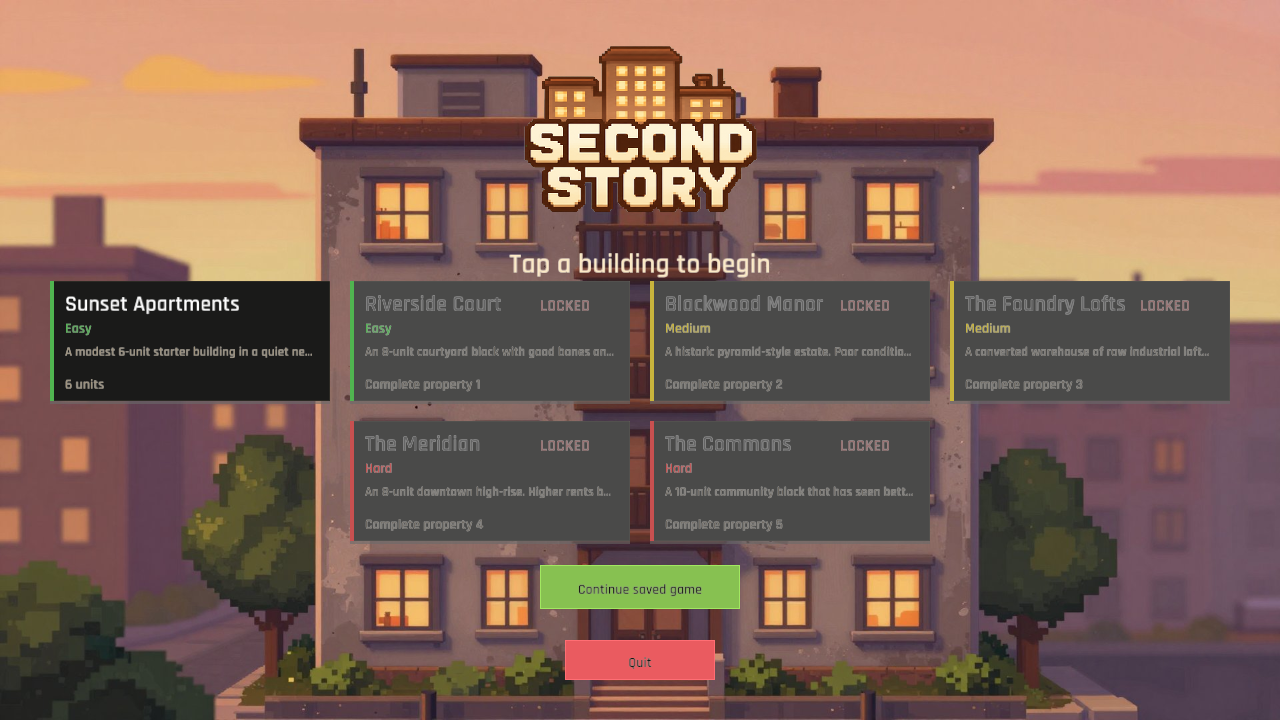
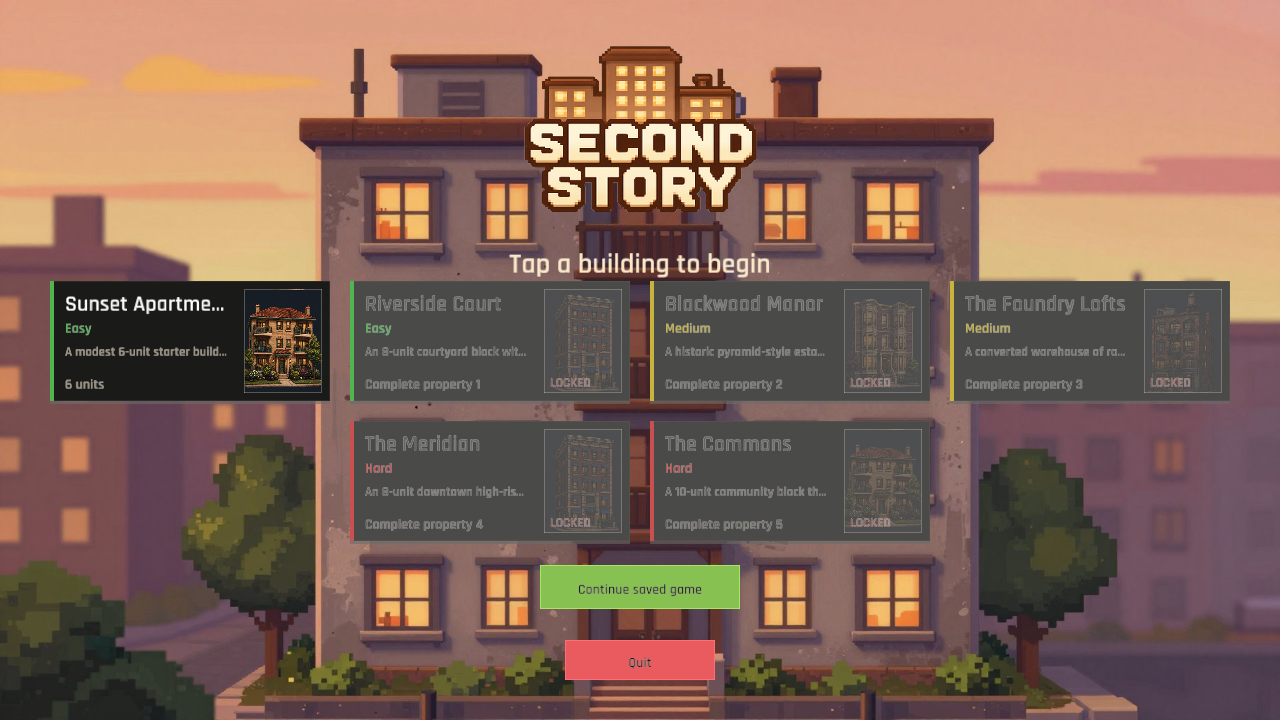
The property book opens with a portrait of every address (campaign facade cards)
Reuse the generated neighborhood facade atlas in campaign selection so every building card conveys its district and architectural identity at a glance. Dim locked property art, preserve its concrete unlock requirement, and reserve a responsive text column so names and descriptions remain legible beside the preview.

Cover all four neighborhood-to-facade mappings and the unknown-neighborhood fallback with focused tests.

Verified with 135 passing tests (1 ignored), desktop and 640x480 menu captures, formatting and Rust line-count checks, and publish.ps1 for Windows, WebGL, and preview deployment.

diff --git a/src/state/menu.rs b/src/state/menu.rs
@@ -235,6 +235,16 @@ impl MenuState {
                 );
             }
 
+            let art_w = if card_h < 90.0 { 64.0 } else { 78.0 };
+            let art_rect = Rect::new(x + card_w - art_w - 8.0, y + 8.0, art_w, card_h - 16.0);
+            let has_facade =
+                draw_campaign_facade(template.neighborhood_id, art_rect, is_unlocked, assets);
+            let text_w = if has_facade {
+                card_w - art_w - 38.0
+            } else {
+                card_w - 30.0
+            };
+
             // Border color based on difficulty
             let border_color = match template.difficulty.as_str() {
                 "Easy" => Color::from_rgba(80, 180, 80, 255),
@@ -252,7 +262,11 @@ impl MenuState {
             };
             let compact_card = card_h < 105.0;
             draw_ui_text(
-                &template.name,
+                &truncate_text_to_width(
+                    &template.name,
+                    text_w,
+                    if compact_card { 19.0 } else { 22.0 },
+                ),
                 x + 15.0,
                 y + if compact_card { 24.0 } else { 30.0 },
                 if compact_card { 19.0 } else { 22.0 },
@@ -276,7 +290,7 @@ impl MenuState {
             };
             if !compact_card {
                 draw_ui_text(
-                    &truncate_text_to_width(&template.description, card_w - 30.0, 13.0),
+                    &truncate_text_to_width(&template.description, text_w, 13.0),
                     x + 15.0,
                     y + 75.0,
                     13.0,
@@ -294,7 +308,7 @@ impl MenuState {
                 format!("Complete property {}", template.unlock_order)
             };
             draw_ui_text(
-                &truncate_text_to_width(&footer_text, card_w - 30.0, 14.0),
+                &truncate_text_to_width(&footer_text, text_w, 14.0),
                 x + 15.0,
                 y + card_h - 12.0,
                 14.0,
@@ -305,9 +319,9 @@ impl MenuState {
             if !is_unlocked {
                 draw_ui_text(
                     "LOCKED",
-                    x + card_w - 90.0,
-                    y + if compact_card { 24.0 } else { 30.0 },
-                    16.0,
+                    art_rect.x + 6.0,
+                    art_rect.bottom() - 6.0,
+                    13.0,
                     Color::from_rgba(150, 100, 100, 255),
                 );
             }
@@ -358,6 +372,53 @@ impl MenuState {
     }
 }
 
+fn campaign_facade_tile(neighborhood_id: u32) -> (f32, f32) {
+    match neighborhood_id {
+        0 => (0.0, 0.0), // Downtown
+        2 => (1.0, 0.0), // Industrial
+        3 => (0.0, 1.0), // Historic
+        _ => (1.0, 1.0), // Suburbs and safe fallback
+    }
+}
+
+fn draw_campaign_facade(
+    neighborhood_id: u32,
+    rect: Rect,
+    unlocked: bool,
+    assets: &AssetManager,
+) -> bool {
+    let Some(texture) = assets.get_texture("property_facades") else {
+        return false;
+    };
+    let (column, row) = campaign_facade_tile(neighborhood_id);
+    let tile_w = texture.width() * 0.5;
+    let tile_h = texture.height() * 0.5;
+    draw_texture_ex(
+        texture,
+        rect.x,
+        rect.y,
+        if unlocked {
+            WHITE
+        } else {
+            Color::new(0.42, 0.4, 0.38, 0.72)
+        },
+        DrawTextureParams {
+            dest_size: Some(vec2(rect.w, rect.h)),
+            source: Some(Rect::new(column * tile_w, row * tile_h, tile_w, tile_h)),
+            ..Default::default()
+        },
+    );
+    draw_rectangle_lines(
+        rect.x,
+        rect.y,
+        rect.w,
+        rect.h,
+        1.0,
+        Color::new(0.8, 0.7, 0.55, 0.45),
+    );
+    true
+}
+
 fn draw_title_logo(assets: &AssetManager) {
     if let Some(logo) = assets.get_texture("title_logo") {
         let (logo_w, logo_h, logo_y) = if screen_height() < 520.0 {
@@ -390,3 +451,6 @@ fn draw_title_logo(assets: &AssetManager) {
         );
     }
 }
+
+#[cfg(test)]
+mod tests;

diff --git a/src/state/menu/tests.rs b/src/state/menu/tests.rs
@@ -1,0 +1,14 @@
+use super::*;
+
+#[test]
+fn campaign_neighborhoods_map_to_distinct_facades() {
+    let mut cells = [0, 1, 2, 3].map(campaign_facade_tile).to_vec();
+    cells.sort_by(|left, right| left.partial_cmp(right).unwrap());
+    cells.dedup();
+    assert_eq!(cells.len(), 4);
+}
+
+#[test]
+fn unknown_neighborhood_uses_the_suburban_facade() {
+    assert_eq!(campaign_facade_tile(99), campaign_facade_tile(1));
+}
